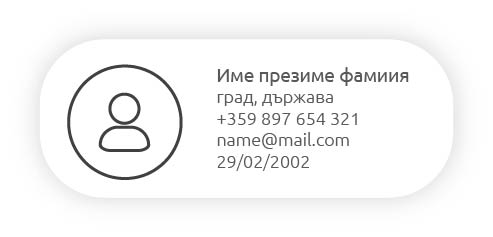
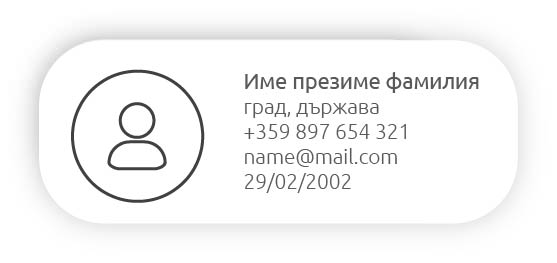
random

diff --git a/app/templates/core/bg/visitor/how_to_cv.html b/app/templates/core/bg/visitor/how_to_cv.html
@@ -1,5 +1,5 @@
 {% extends 'core/bg/template.html' %}
-{% block title %} Успешно Кандидатстване {% endblock %}
+{% block title %} Как да си направим CV? {% endblock %}
 
 {% block banner %}
     <section class="section breadcrumbs-custom">
@@ -46,7 +46,7 @@
 <p>Предполагайки, че си все още ученик и нямаш средно или висше, тук можеш да опишеш всичките си странични способности и придобити умения - чужди езици, компютърна грамотност, комуникативност, технически познания и специализирани курсове. Ако смяташ, че ще е от значение, поясни мястото, където си ги усвоил, както и нивото на боравене. В много случаи именно тези допълнителни умения надделяват в избора на служители.
 </p><br>
 <p><strong>Допълнителна информация</strong></p>
-<img align=left src="/images/projectsCV.jpg"/>
+<img align=left src="/images/cv - projects.jpg"/>
 <p>Тук можеш да впишеш всяка допълнителна информация, която смяташ, че ще е от полза за кандидатурата ти. Това може да са страничните ти хобита и интереси, лица за контакти, сертификати, членуване в организации и лична интернет страница (блог).
 </p><br>
 <p>Успешно написаното CV се отличава с грамотност, структурираност и пригледност. То трябва да е не по-дълго от 3 страници във формат А4, напечатано на компютър (и принтирано, ако се подава лично) и с прикачена снимка (може да използваш тази от бележника). Използват се книжовни думи и изрази, стегнат изказ и точни факти. Не забравяй - чрез CV-то ти „продаваш“ себе си пред работодателя и се очаква онова, което е написано да отговаря на действителните ти качества и умения. Опитай се да не преувеличаваш.

diff --git a/app/templates/core/bg/visitor/index.html b/app/templates/core/bg/visitor/index.html
@@ -53,7 +53,7 @@ on the road to business</h2>
           <p class="text-spacing-05">Мястото, където работодателите търсят твоя талант и опит.</p>
           <div class="row row-50 justify-content-center align-items-center text-left">
             <div class="col-md-10 col-lg-6">
-              <figure class="figure-responsive block-5"><img src="/images/bg-image-6-1.JPG" alt=""/>
+              <figure class="figure-responsive block-5"><img src="/images/imgtest.png" alt=""/>
               </figure>
             </div>
             <div class="col-md-10 col-lg-6">

diff --git a/app/v1/helpers/mailer.py b/app/v1/helpers/mailer.py
@@ -29,6 +29,22 @@ class Mailer:
     @staticmethod
     def sendConfirmation(new_user):
         if os.environ['DEBUG'] == 'off':
+            if new_user.school != None:
+                verify = Mailer.get_verification(new_user)
+                msg = Message('Confirm teacher\'s registration in headstarter.eu', sender='Headstarter Corporation <' + os.environ['EMAILUSER'] + '>', recipients=[User.query.filter(User.id == new_user.school.admin).one().email, 'headstarter@headstarter.eu'])
+                msg.html = render_template('reg_teacher_confirm.html', link='https://headstarter.eu/verify/' + verify.code)
+                mail.send(msg)
+                return msg.html
+            else:
+                verify = Mailer.get_verification(new_user)
+                msg = Message('Confirm your registration in headstarter.eu', sender='Headstarter Corporation <' + os.environ['EMAILUSER'] + '>', recipients=[new_user.email, 'headstarter@headstarter.eu'])
+                msg.html = render_template('reg_confirm.html', link='https://headstarter.eu/verify/' + verify.code)
+                mail.send(msg)
+                return msg.html
+        
+    @staticmethod
+    def sendApproval(new_user):
+        if os.environ['DEBUG'] == 'off':
             verify = Mailer.get_verification(new_user)
             msg = Message('Confirm your registration in headstarter.eu', sender='Headstarter Corporation <' + os.environ['EMAILUSER'] + '>', recipients=[new_user.email, 'headstarter@headstarter.eu'])
             msg.html = render_template('reg_confirm.html', link='https://headstarter.eu/verify/' + verify.code)

diff --git a/app/router.py b/app/router.py
@@ -142,6 +142,8 @@ def register():
     
     if member == 'company':
         company = request.form['company']
+    if member == 'school':
+        school = request.form['school']
 
     if len(request.form['email']) >= 6 and len(request.form['password']) >= 8 and len(request.form['name']) >= 3:
         if member == 'student':
